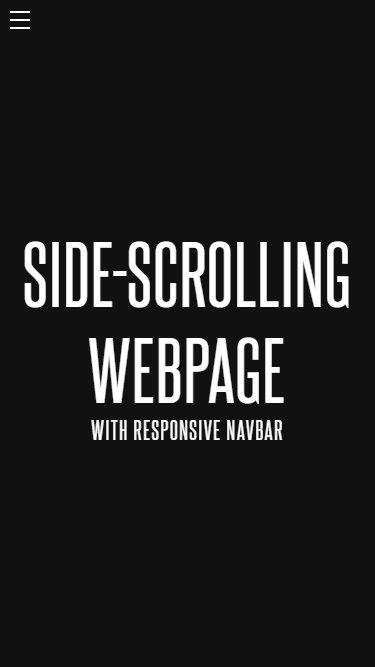
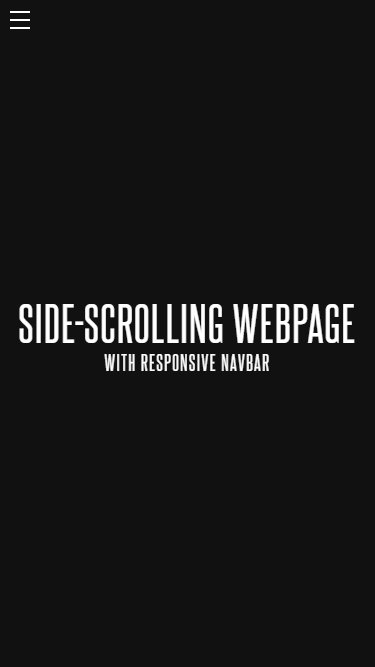
Updates to markup, typography, screenshots, and readme

Changed region(s): [[0.0293, 0.3598, 0.9387, 0.6597]]

diff --git a/index.html b/index.html
@@ -40,15 +40,19 @@
         </section>
         <section class="page-2" id="page-2">
           <h1>Page Two</h1>
+          <h2>Feel free to keep scrolling</h2>
         </section>
         <section class="page-3" id="page-3">
           <h1>Page Three</h1>
+          <h2>As you can see...</h2>
         </section>
         <section class="page-4" id="page-4">
           <h1>Page Four</h1>
+          <h2>...each page takes up the maximum screen width needed...</h2>
         </section>
         <section class="page-5" id="page-5">
           <h1>Page Five</h1>
+          <h2>...and also snaps to the beginning of the next section.</h2>
         </section>
       </div>
     </div>

diff --git a/styles/styles.css b/styles/styles.css
@@ -46,9 +46,31 @@ section {
 }
 
 section h1 {
-  font-size: 5rem;
+  font-size: 2.5rem;
 }
 
+section h2 {
+  font-size: 1rem;
+}
+
+@media screen and (min-width: 350px) {
+  section h1 {
+    font-size: 3rem;
+  }
+
+  section h2 {
+    font-size: 1.25rem;
+  }
+}
+@media screen and (min-width: 576px) {
+  section h1 {
+    font-size: 5rem;
+  }
+
+  section h2 {
+    font-size: 2rem;
+  }
+}
 .page-1 {
   background-color: #111;
 }

diff --git a/styles/components/_layout.scss b/styles/components/_layout.scss
@@ -47,7 +47,31 @@ section {
   width: 100vw;
 
   h1 {
-    font-size: 5rem;
+    font-size: 2.5rem;
+  }
+
+  h2 {
+    font-size: 1rem;
+  }
+
+  @media screen and (min-width: 350px) {
+    h1 {
+      font-size: 3rem;
+    }
+    
+    h2 {
+      font-size: 1.25rem;
+    }
+  }
+
+  @media screen and (min-width: 576px) {
+    h1 {
+      font-size: 5rem;
+    }
+
+    h2 {
+      font-size: 2rem;
+    }
   }
 }
 

diff --git a/readme.md b/readme.md
@@ -19,19 +19,26 @@ For demonstration purposes, I've decided to create a responsive, horizontally-sc
 - [Author](#author)
 - [Acknowledgements](#acknowledgements)
 
-## Screenshots
+## Overview
+
+A quick aside and acknowledgement: I found out how to put the vast majority of this together after following Red Stapler's [video](https://www.youtube.com/watch?v=OeaHnxahf40) on YouTube. A lot of this is still me, though. Filip's [video](https://www.youtube.com/watch?v=pNPkVQD7vlM&t=742s) on scroll snapping also helped, too. Without any further ado, here's a preview of coming attractions:
+
+### Screenshots
 
 ### Desktop
 
 ![Desktop screenshot, first page](./screenshots/desktop-screenshot.jpg)
 
-### Mobile (Menu Closed)
+### Mobile
 
-![Mobile screenshot, first page, menu closed](./screenshots/mobile-screenshot-menu-closed.jpg)
+#### Closed & Open
 
-### Mobile (Menu Open)
+![Mobile screenshot, first page, menu closed and open](./screenshots/mobile-screenshot-combined.png)
 
-![Mobile screenshot, first page, menu open](./screenshots/mobile-screenshot-menu-open.png)
+### Links
+
+- My [Github Repo](https://github.com/Valkinsenn/bag-o-tricks--responsive-side-scrolling-page) for this project.
+- The page in action: [link](https://valkinsenn.github.io/bag-o-tricks--responsive-side-scrolling-page/).
 
 ## How I did it
 
@@ -41,9 +48,10 @@ Thankfully, the layout and menu is pretty simple to accomplish, as all that's re
 
 #### Navbar:
 
-```html <!-- Outermost navbar shell -->
+```html 
+<!-- Outermost navbar shell -->
 <nav class="navbar">
-  <!-- Encases all the navbar's parts -->
+  <!-- Encases the navbar's parts -->
   <nav class="nav-wrapper">
     <!-- Main label for menu toggler; toggles the checkbox -->
     <label for="menu-btn-toggler" class="menu-btn">
